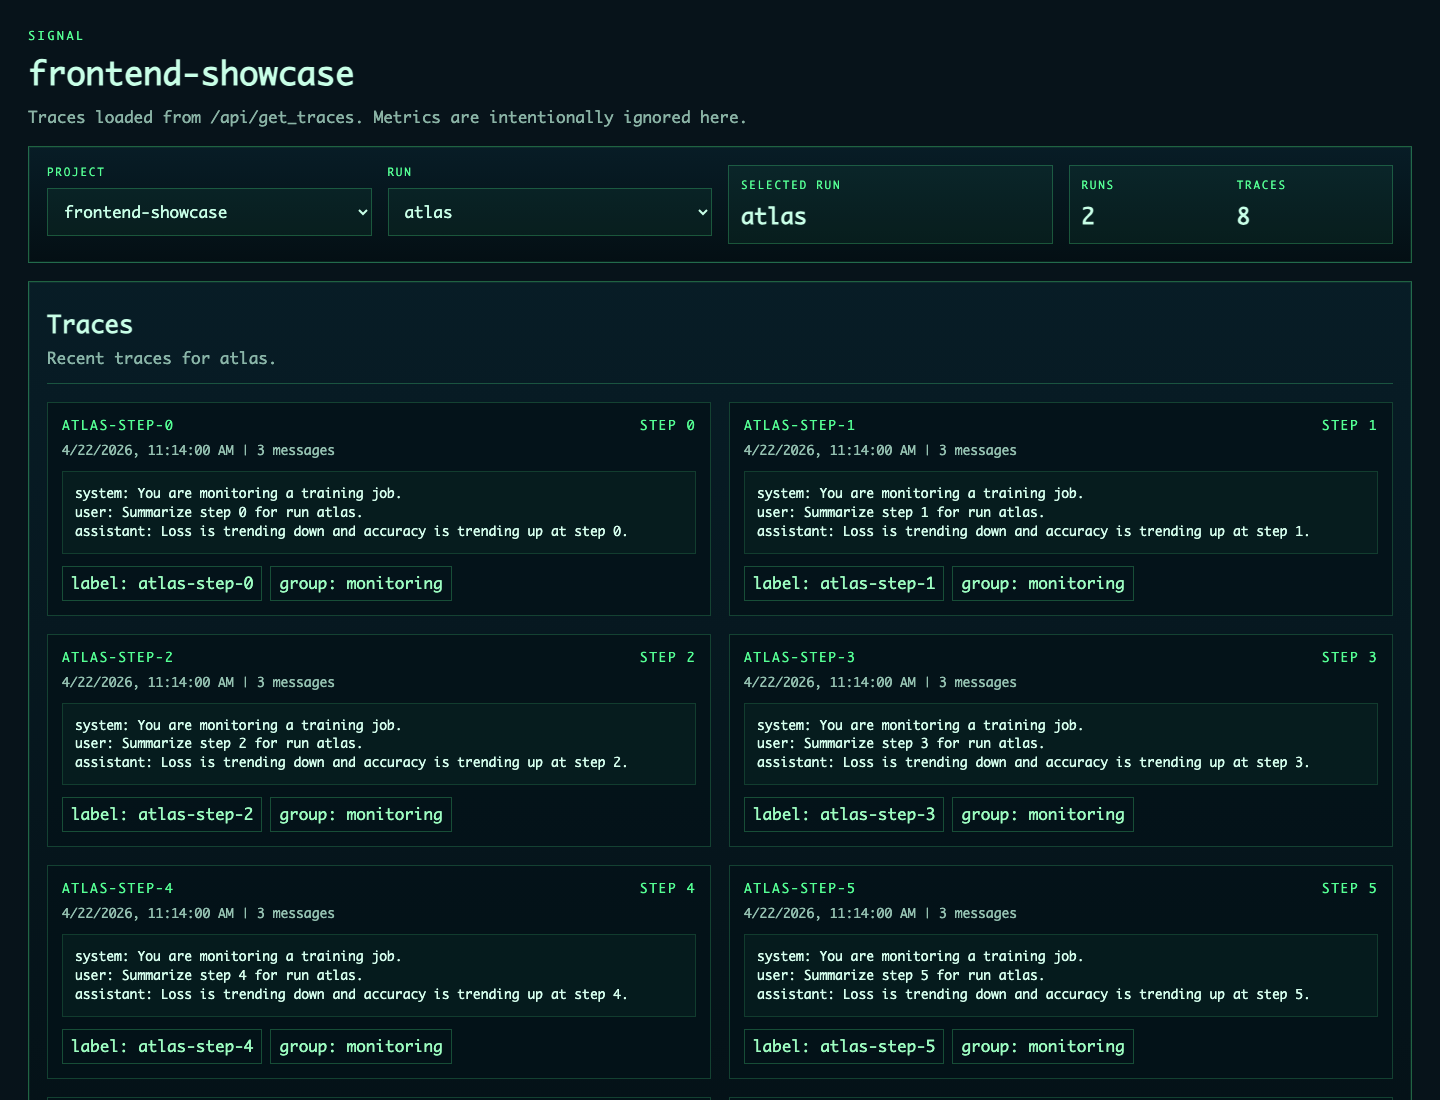
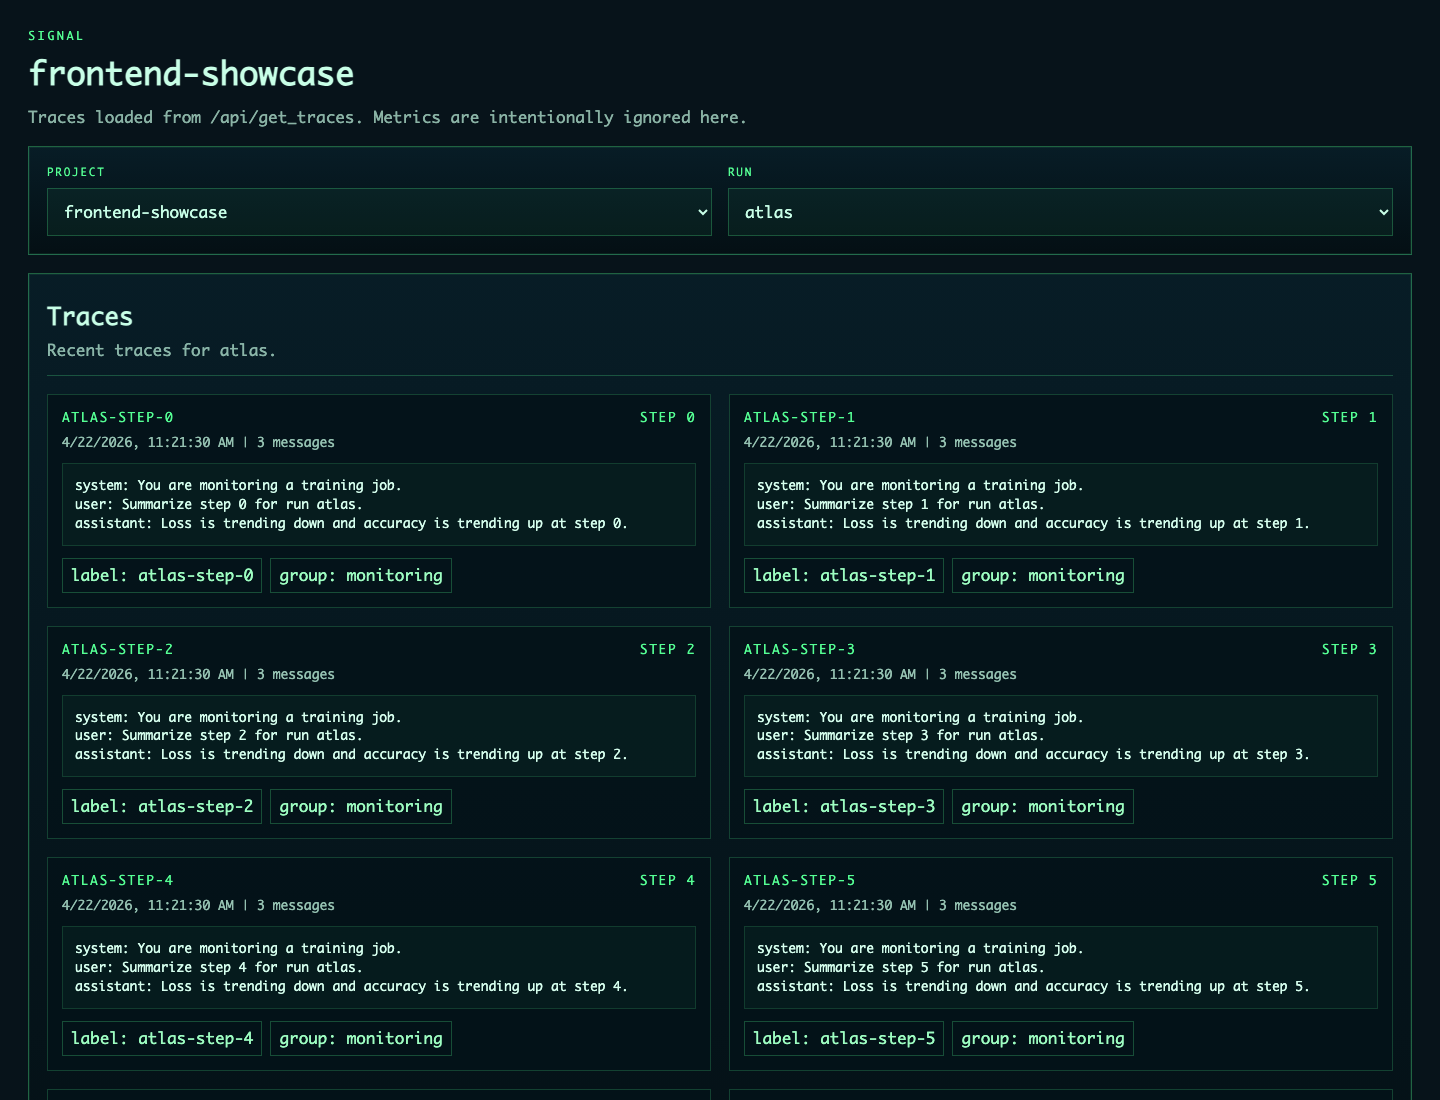
changes

diff --git a/examples/custom-frontends/signal/frontend/shared-theme.js b/examples/custom-frontends/signal/frontend/shared-theme.js
@@ -148,9 +148,6 @@ export async function mountTheme({
   metricsEl,
   metricsSubtitle,
   statusLine,
-  runsCount,
-  traceCount,
-  selectedRunName,
 }) {
   try {
     const projects = await api("get_all_projects");
@@ -174,18 +171,13 @@ export async function mountTheme({
     projectSelect.onchange = () => updateQueryParam("project", projectSelect.value);
 
     if (!selectedProject) {
-      selectedRunName.textContent = "No run";
-      traceCount.textContent = "0";
       renderEmptyState(metricsEl, "No traces yet");
       return;
     }
 
     const runs = await api("get_runs_for_project", { project: selectedProject });
-    runsCount.textContent = String(runs.length);
     if (!runs.length) {
       runSelect.innerHTML = "";
-      selectedRunName.textContent = "No run";
-      traceCount.textContent = "0";
       renderEmptyState(metricsEl, "No traces yet");
       return;
     }
@@ -202,17 +194,14 @@ export async function mountTheme({
     const updateSelectedRun = async (runId) => {
       selectedRun = runs.find((run) => run.id === runId) || runs[0];
       runSelect.value = selectedRun.id;
-      selectedRunName.textContent = selectedRun.name || "Unnamed run";
       metricsSubtitle.textContent = `Recent traces for ${selectedRun.name || "the selected run"}.`;
-      traceCount.textContent = String(await renderTraces(metricsEl, selectedProject, selectedRun));
+      await renderTraces(metricsEl, selectedProject, selectedRun);
     };
 
     runSelect.onchange = () => updateQueryParam("run_id", runSelect.value);
     await updateSelectedRun(selectedRun.id);
   } catch (error) {
     title.textContent = "Error";
-    selectedRunName.textContent = "Error";
-    traceCount.textContent = "0";
     renderEmptyState(metricsEl, error.message);
   }
 }

diff --git a/examples/custom-frontends/signal/frontend/index.html b/examples/custom-frontends/signal/frontend/index.html
@@ -23,14 +23,6 @@
             <span class="label">Run</span>
             <select id="run-select" class="selector"></select>
           </label>
-          <div class="summary-box">
-            <span class="label">Selected Run</span>
-            <strong id="selected-run-name">Loading</strong>
-          </div>
-          <div class="summary-box duo">
-            <div><span class="label">Runs</span><strong id="runs-count">0</strong></div>
-            <div><span class="label">Traces</span><strong id="trace-count">0</strong></div>
-          </div>
         </div>
       </section>
       <section class="panel">

diff --git a/examples/custom-frontends/signal/frontend/styles.css b/examples/custom-frontends/signal/frontend/styles.css
@@ -40,7 +40,7 @@ h2 {
 
 .control-grid {
   display: grid;
-  grid-template-columns: repeat(4, minmax(0, 1fr));
+  grid-template-columns: repeat(2, minmax(0, 1fr));
   gap: 16px;
 }
 
@@ -63,22 +63,6 @@ h2 {
   color: inherit;
   font: inherit;
   text-align: left;
-}
-
-.summary-box {
-  padding: 12px;
-  border: 1px solid rgba(85, 255, 148, 0.25);
-  background: rgba(85, 255, 148, 0.05);
-}
-
-.summary-box strong {
-  font-size: 22px;
-}
-
-.summary-box.duo {
-  display: grid;
-  grid-template-columns: repeat(2, minmax(0, 1fr));
-  gap: 12px;
 }
 
 .metrics-head {

diff --git a/examples/custom-frontends/signal/frontend/app.js b/examples/custom-frontends/signal/frontend/app.js
@@ -7,7 +7,4 @@ mountTheme({
   metricsEl: document.querySelector("#metrics"),
   metricsSubtitle: document.querySelector("#metrics-subtitle"),
   statusLine: document.querySelector("#status-line"),
-  runsCount: document.querySelector("#runs-count"),
-  traceCount: document.querySelector("#trace-count"),
-  selectedRunName: document.querySelector("#selected-run-name"),
 });

diff --git a/examples/custom-frontends/sunrise/frontend/shared-theme.js b/examples/custom-frontends/sunrise/frontend/shared-theme.js
@@ -79,7 +79,7 @@ function buildAreaPath(points, height) {
 
 function renderMetricCard(metric, rows) {
   const chartableRows = getChartableRows(rows);
-  const width = 560;
+  const width = 1000;
   const height = 190;
   const padding = 18;
   const values = chartableRows.map((row) => row.value);

diff --git a/examples/custom-frontends/sunrise/frontend/styles.css b/examples/custom-frontends/sunrise/frontend/styles.css
@@ -138,7 +138,7 @@ h2 {
 
 .chart-frame svg {
   display: block;
-  width: min(100%, 560px);
+  width: 100%;
   height: auto;
 }
 
